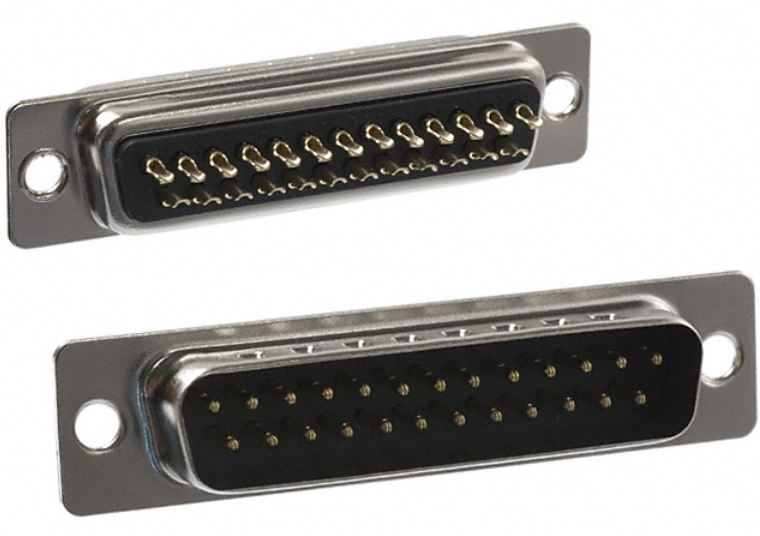
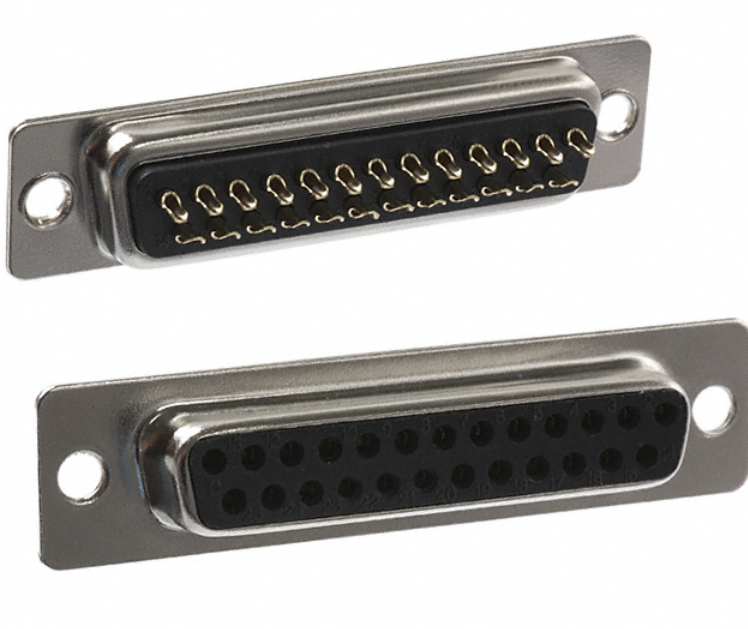
IMAGE UPDATES

diff --git a/metal-box/README.md b/metal-box/README.md
@@ -34,16 +34,16 @@ Machined modifications to off the shelf diecast aluminum enclosure, AN-1304-A bo
  - [Male-Female Threaded Hex Standoff 18-8 Stainless Steel, 3/16" Hex, 7/32" Long, 4-40 to 4-40 Thread](https://www.mcmaster.com/91075A462/)
  - [Brass Socket Head Screw 4-40 Thread Size, 3/4" Long](https://www.mcmaster.com/93465A113/ )
  - [Brass Washer for Number 4 Screw Size, 0.12" ID, 0.281" OD](https://www.mcmaster.com/92916A320/)
- - [DB25 panel mount solder cup(for COTS controllers)](https://www.digikey.com/en/products/detail/norcomp-inc/171-025-103L001/858135)
- - [DB25 board mount connector(for HV relay boards)](https://www.digikey.com/en/products/detail/assmann-wsw-components/A-DF-25-PP-Z/1241794)
+ - [DB25 female panel mount solder cup(for COTS controllers)](https://www.digikey.com/en/products/detail/norcomp-inc/171-025-203L001/858144)
+ - [DB25 female board mount connector(for HV relay boards)](https://www.digikey.com/en/products/detail/assmann-wsw-components/A-DF-25-PP-Z/1241794)
 
 ## PICTORIAL BILL OF MATERIALS
 
-### Bud Industries AN-1304-A
+### [Bud Industries AN-1304-A](https://www.digikey.com/en/products/detail/bud-industries/AN-1304-A/5804538)
 
-![](https://raw.githubusercontent.com/lafefspietz/MEMSduino/refs/heads/main/metal-box/images/bud-box-raw.png)
+[![](https://raw.githubusercontent.com/lafefspietz/MEMSduino/refs/heads/main/metal-box/images/bud-box-raw.png)](https://www.digikey.com/en/products/detail/bud-industries/AN-1304-A/5804538)
 
-![](https://raw.githubusercontent.com/lafefspietz/MEMSduino/refs/heads/main/metal-box/images/bud-box-raw-drawing.png)
+[![](https://raw.githubusercontent.com/lafefspietz/MEMSduino/refs/heads/main/metal-box/images/bud-box-raw-drawing.png)](https://www.digikey.com/en/products/detail/bud-industries/AN-1304-A/5804538)
 
 ### [3/4" long 4-40 Brass socket cap screws](https://www.mcmaster.com/93465A113/)
 
@@ -75,3 +75,45 @@ These screws are used to attach various brackets to the inside of the box.  Make
 [![](https://raw.githubusercontent.com/lafefspietz/MEMSduino/refs/heads/main/metal-box/images/4-40-standoffs-photo.png)](https://www.mcmaster.com/91075A462/)
 
 [![](https://raw.githubusercontent.com/lafefspietz/MEMSduino/refs/heads/main/metal-box/images/4-40-standoffs-drawing.png)](https://www.mcmaster.com/91075A462/)
+
+### DB 25 Female Solder Cup Connector
+
+NorComp Inc. part number 171-025-203L001, DigiKey part number 225FE-ND
+
+[![](https://raw.githubusercontent.com/lafefspietz/MEMSduino/refs/heads/main/metal-box/images/DB25-solder-cup.PNG)](https://www.digikey.com/en/products/detail/norcomp-inc/171-025-203L001/858144)
+
+### DB 25 Female PCB Pin Connector
+
+Assmann WSW Components part number A-DF 25 PP/Z, DigiKey part number AE10940-ND
+
+[![](https://raw.githubusercontent.com/lafefspietz/MEMSduino/refs/heads/main/metal-box/images/DB25-pcb-pins.png)](https://www.digikey.com/en/products/detail/assmann-wsw-components/A-DF-25-PP-Z/1241794)
+
+## PICTORIAL ASSEMBLY
+
+### CUTOUT SIDE
+
+![](https://raw.githubusercontent.com/lafefspietz/MEMSduino/refs/heads/main/metal-box/images/metal-box-cutout-side.png)
+
+### BOTTOM OF BOX
+
+![](https://raw.githubusercontent.com/lafefspietz/MEMSduino/refs/heads/main/metal-box/images/metal-box-bottom-outside.png)
+
+### BRACKET INSTALLATION IN INSIDE OF BOX
+
+![](https://raw.githubusercontent.com/lafefspietz/MEMSduino/refs/heads/main/metal-box/images/metal-box-and-cots-bracket.png)
+
+### BRASS SCREWS THROUGH 1/2" WOOD BOARD
+
+![](https://raw.githubusercontent.com/lafefspietz/MEMSduino/refs/heads/main/metal-box/images/brass-screws-in-wood.png)
+
+### LID CUTOUT WITH NO CONNECTOR
+
+![](https://raw.githubusercontent.com/lafefspietz/MEMSduino/refs/heads/main/metal-box/images/metal-box-lid-nodsub.png)
+
+### LID CUTOUT WITH DSUB OUTSIDE
+
+![](https://raw.githubusercontent.com/lafefspietz/MEMSduino/refs/heads/main/metal-box/images/metal-box-lid-with-dsub.png)
+
+### LID CUTOUT WITH DSUB INSIDE
+
+![](https://raw.githubusercontent.com/lafefspietz/MEMSduino/refs/heads/main/metal-box/images/metal-box-lid-with-dsub-inside.png)

diff --git a/README.md b/README.md
@@ -105,7 +105,7 @@ Open source system for controlling MEMS switches using an Arduino.  This system 
  - [1000 uF electrolytic capacitor](https://www.digikey.com/en/products/detail/rubycon/16PK1000MEFC10X12-5/3563556)
  - [Momentary buttons](https://www.digikey.com/en/products/detail/e-switch/TL59NF160Q/390533)
  - [JUMPER WIRE M/M 6" 20PCS](https://www.digikey.com/en/products/detail/sparkfun-electronics/PRT-12795/5993860)
- - [DB25 panel mount solder cup](https://www.digikey.com/en/products/detail/norcomp-inc/171-025-103L001/858135)
+ - [DB25 panel mount solder cup](https://www.digikey.com/en/products/detail/norcomp-inc/171-025-203L001/858144)
  - [Arduino UNO](https://www.digikey.com/en/products/detail/dfrobot/DFR0216/6579366)
  - [USB A to USB B cable](https://www.digikey.com/en/products/detail/assmann-wsw-components/AK672-2-2/947492)
  - [Neopixel programmable RGB LED](https://www.adafruit.com/product/1559)

diff --git a/SP3T-COTS/README.md b/SP3T-COTS/README.md
@@ -55,7 +55,7 @@ To program over serial, connect at 9600 baud and send the character of the numbe
  - [1000 uF electrolytic capacitor](https://www.digikey.com/en/products/detail/rubycon/16PK1000MEFC10X12-5/3563556)
  - [Momentary buttons](https://www.digikey.com/en/products/detail/e-switch/TL59NF160Q/390533)
  - [JUMPER WIRE M/M 6" 20PCS](https://www.digikey.com/en/products/detail/sparkfun-electronics/PRT-12795/5993860)
- - [DB25 panel mount solder cup](https://www.digikey.com/en/products/detail/norcomp-inc/171-025-103L001/858135)
+ - [DB25 panel mount solder cup](https://www.digikey.com/en/products/detail/norcomp-inc/171-025-203L001/858144)
  - [Arduino UNO](https://www.digikey.com/en/products/detail/dfrobot/DFR0216/6579366)
  - [USB A to USB B cable](https://www.digikey.com/en/products/detail/assmann-wsw-components/AK672-2-2/947492)
  - [Neopixel programmable RGB LED](https://www.adafruit.com/product/1559)

diff --git a/SP6T-COTS/README.md b/SP6T-COTS/README.md
@@ -52,7 +52,7 @@ To program over serial, connect at 9600 baud and send the character of the numbe
  - [1000 uF electrolytic capacitor](https://www.digikey.com/en/products/detail/rubycon/16PK1000MEFC10X12-5/3563556)
  - [Momentary buttons](https://www.digikey.com/en/products/detail/e-switch/TL59NF160Q/390533)
  - [JUMPER WIRE M/M 6" 20PCS](https://www.digikey.com/en/products/detail/sparkfun-electronics/PRT-12795/5993860)
- - [DB25 panel mount solder cup](https://www.digikey.com/en/products/detail/norcomp-inc/171-025-103L001/858135)
+ - [DB25 panel mount solder cup](https://www.digikey.com/en/products/detail/norcomp-inc/171-025-203L001/858144)
  - [Arduino UNO](https://www.digikey.com/en/products/detail/dfrobot/DFR0216/6579366)
  - [USB A to USB B cable](https://www.digikey.com/en/products/detail/assmann-wsw-components/AK672-2-2/947492)
  - [Neopixel programmable RGB LED](https://www.adafruit.com/product/1559)
